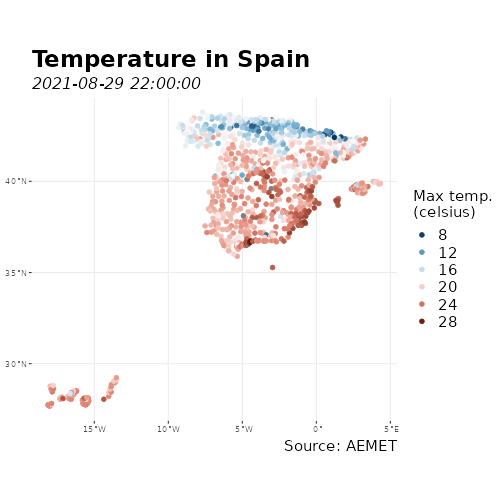
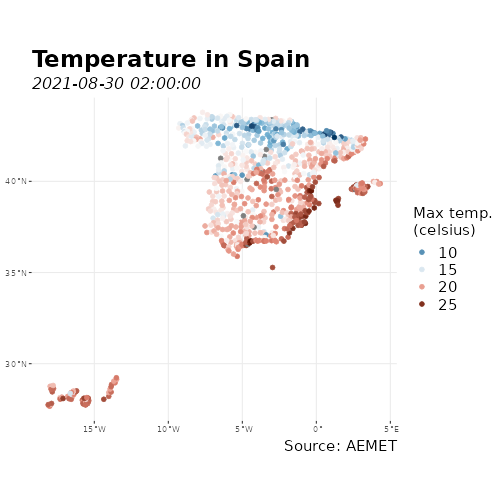
Update docs with pkgdev

diff --git a/README.md b/README.md
@@ -135,16 +135,16 @@ aemet_last_obs("9434")
 #> # A tibble: 23 × 25
 #>    idema   lon fint                 prec   alt  vmax    vv    dv   lat  dmax
 #>    <chr> <dbl> <dttm>              <dbl> <dbl> <dbl> <dbl> <dbl> <dbl> <dbl>
-#>  1 9434  -1.00 2021-08-29 22:00:00     0   249   6.5   4.1   321  41.7   308
-#>  2 9434  -1.00 2021-08-29 23:00:00     0   249   9.6   6.8   307  41.7   308
-#>  3 9434  -1.00 2021-08-30 00:00:00     0   249   8.8   5.6   311  41.7   308
-#>  4 9434  -1.00 2021-08-30 01:00:00     0   249   8.7   6.2   300  41.7   293
-#>  5 9434  -1.00 2021-08-30 02:00:00     0   249   8     3.5   323  41.7   303
-#>  6 9434  -1.00 2021-08-30 03:00:00     0   249   7     5.2   284  41.7   275
-#>  7 9434  -1.00 2021-08-30 04:00:00     0   249   7.3   4.7   281  41.7   298
-#>  8 9434  -1.00 2021-08-30 05:00:00     0   249   6.4   4.7   284  41.7   295
-#>  9 9434  -1.00 2021-08-30 06:00:00     0   249   7.6   6.1   289  41.7   290
-#> 10 9434  -1.00 2021-08-30 07:00:00     0   249   7.5   5.4   300  41.7   303
+#>  1 9434  -1.00 2021-08-30 02:00:00     0   249   8     3.5   323  41.7   303
+#>  2 9434  -1.00 2021-08-30 03:00:00     0   249   7     5.2   284  41.7   275
+#>  3 9434  -1.00 2021-08-30 04:00:00     0   249   7.3   4.7   281  41.7   298
+#>  4 9434  -1.00 2021-08-30 05:00:00     0   249   6.4   4.7   284  41.7   295
+#>  5 9434  -1.00 2021-08-30 06:00:00     0   249   7.6   6.1   289  41.7   290
+#>  6 9434  -1.00 2021-08-30 07:00:00     0   249   7.5   5.4   300  41.7   303
+#>  7 9434  -1.00 2021-08-30 08:00:00     0   249   7.9   6.1   297  41.7   288
+#>  8 9434  -1.00 2021-08-30 09:00:00     0   249   8.2   5.1   296  41.7   293
+#>  9 9434  -1.00 2021-08-30 10:00:00     0   249   7.9   4.6   305  41.7   305
+#> 10 9434  -1.00 2021-08-30 11:00:00     0   249   5.9   2.2   334  41.7   293
 #> # … with 13 more rows, and 15 more variables: ubi <chr>, pres <dbl>, hr <dbl>,
 #> #   stdvv <dbl>, ts <dbl>, pres_nmar <dbl>, tamin <dbl>, ta <dbl>, tamax <dbl>,
 #> #   tpr <dbl>, stddv <dbl>, inso <dbl>, tss5cm <dbl>, pacutp <dbl>,
@@ -185,12 +185,12 @@ knitr::kable(head(data_observation))
 
 | idema |        lon | fint                | prec | alt | vmax |  vv |  dv |      lat | dmax | ubi                 |  pres | hr | stdvv |   ts | pres\_nmar | tamin |   ta | tamax |  tpr | stddv | inso | tss5cm | pacutp | tss20cm |
 | :---- | ---------: | :------------------ | ---: | --: | ---: | --: | --: | -------: | ---: | :------------------ | ----: | -: | ----: | ---: | ---------: | ----: | ---: | ----: | ---: | ----: | ---: | -----: | -----: | ------: |
-| 9434  | \-1.004167 | 2021-08-29 22:00:00 |    0 | 249 |  6.5 | 4.1 | 321 | 41.66056 |  308 | ZARAGOZA AEROPUERTO | 984.3 | 51 |   0.7 | 22.1 |     1013.2 |  21.8 | 21.8 |  24.4 | 11.2 |     9 |    0 |   30.4 |      0 |    31.6 |
-| 9434  | \-1.004167 | 2021-08-29 23:00:00 |    0 | 249 |  9.6 | 6.8 | 307 | 41.66056 |  308 | ZARAGOZA AEROPUERTO | 984.6 | 54 |   0.8 | 21.6 |     1013.6 |  21.1 | 21.1 |  21.8 | 11.4 |     6 |    0 |   29.6 |      0 |    31.4 |
-| 9434  | \-1.004167 | 2021-08-30 00:00:00 |    0 | 249 |  8.8 | 5.6 | 311 | 41.66056 |  308 | ZARAGOZA AEROPUERTO | 984.6 | 56 |   0.8 | 20.6 |     1013.7 |  20.2 | 20.2 |  21.1 | 11.1 |     7 |    0 |   28.9 |      0 |    31.1 |
-| 9434  | \-1.004167 | 2021-08-30 01:00:00 |    0 | 249 |  8.7 | 6.2 | 300 | 41.66056 |  293 | ZARAGOZA AEROPUERTO | 984.5 | 56 |   0.7 | 20.1 |     1013.6 |  19.8 | 19.8 |  20.3 | 10.8 |     6 |    0 |   28.3 |      0 |    30.9 |
 | 9434  | \-1.004167 | 2021-08-30 02:00:00 |    0 | 249 |  8.0 | 3.5 | 323 | 41.66056 |  303 | ZARAGOZA AEROPUERTO | 984.8 | 58 |   0.7 | 19.0 |     1014.0 |  19.1 | 19.1 |  19.8 | 10.6 |    12 |    0 |   27.7 |      0 |    30.6 |
 | 9434  | \-1.004167 | 2021-08-30 03:00:00 |    0 | 249 |  7.0 | 5.2 | 284 | 41.66056 |  275 | ZARAGOZA AEROPUERTO | 984.7 | 59 |   0.5 | 18.6 |     1013.9 |  18.6 | 18.7 |  19.1 | 10.5 |     6 |    0 |   27.1 |      0 |    30.3 |
+| 9434  | \-1.004167 | 2021-08-30 04:00:00 |    0 | 249 |  7.3 | 4.7 | 281 | 41.66056 |  298 | ZARAGOZA AEROPUERTO | 984.6 | 61 |   0.5 | 18.2 |     1013.9 |  18.0 | 18.0 |  18.7 | 10.4 |     7 |    0 |   26.6 |      0 |    30.0 |
+| 9434  | \-1.004167 | 2021-08-30 05:00:00 |    0 | 249 |  6.4 | 4.7 | 284 | 41.66056 |  295 | ZARAGOZA AEROPUERTO | 984.7 | 61 |   0.5 | 18.6 |     1014.0 |  17.6 | 17.9 |  18.0 | 10.3 |     6 |    0 |   26.2 |      0 |    29.7 |
+| 9434  | \-1.004167 | 2021-08-30 06:00:00 |    0 | 249 |  7.6 | 6.1 | 289 | 41.66056 |  290 | ZARAGOZA AEROPUERTO | 985.0 | 59 |   0.6 | 19.3 |     1014.3 |  17.9 | 18.5 |  18.5 | 10.3 |     5 |    0 |   26.0 |      0 |    29.3 |
+| 9434  | \-1.004167 | 2021-08-30 07:00:00 |    0 | 249 |  7.5 | 5.4 | 300 | 41.66056 |  303 | ZARAGOZA AEROPUERTO | 985.5 | 58 |   0.6 | 20.4 |     1014.8 |  18.4 | 18.8 |  18.8 | 10.4 |     6 |    0 |   26.0 |      0 |    29.1 |
 
 ``` r
 
